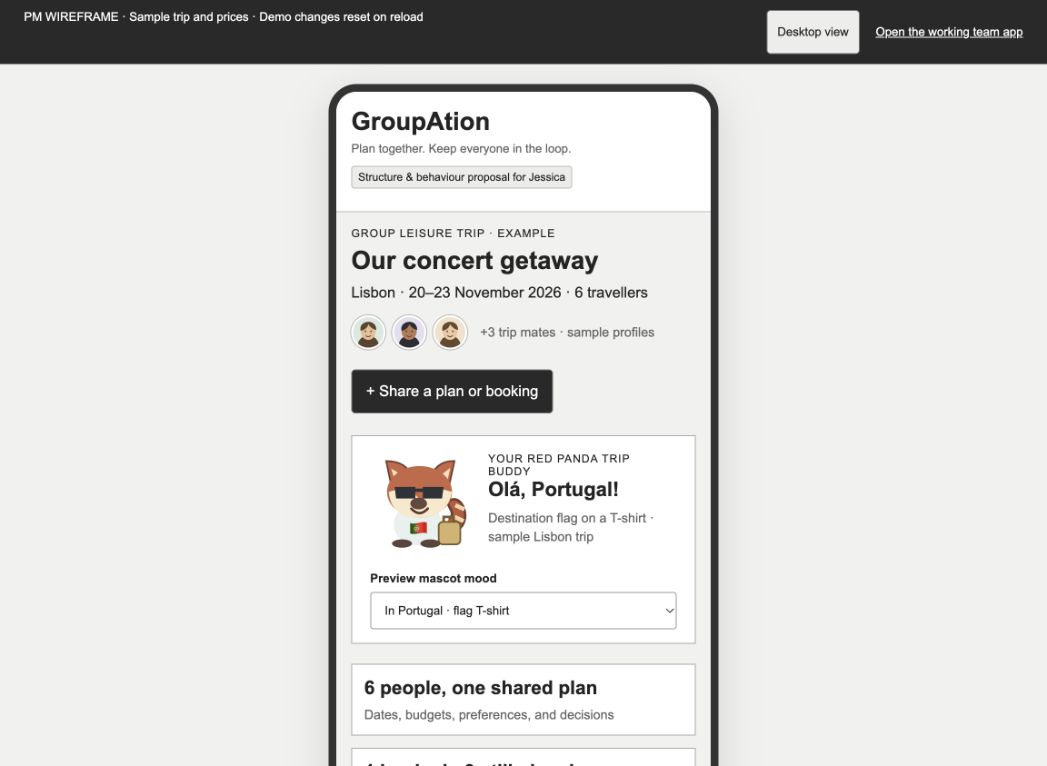
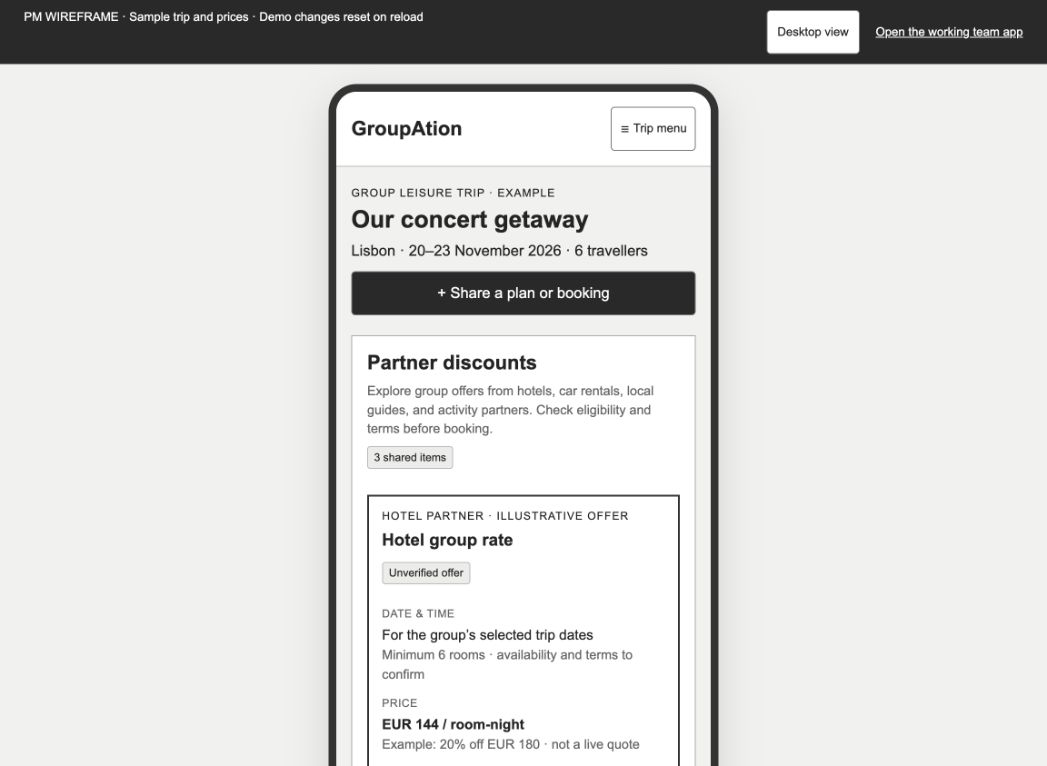
Drift: add focused sidebar and partner offers wireframe

Changed region(s): [[0.3362, 0.1501, 0.6724, 1.0], [0.5807, 0.1501, 0.6724, 0.1802], [0.6418, 0.9308, 0.6724, 0.9909]]

diff --git a/drift/public/groupation-wireframe.html b/drift/public/groupation-wireframe.html
@@ -6,24 +6,29 @@
 <link rel="icon" href="data:,">
 <style>
 :root{font-family:Arial,sans-serif;color:#242424;background:#f1f1ef;font-size:15px}*{box-sizing:border-box}body{margin:0}button,input,select,textarea{font:inherit}button,a{touch-action:manipulation}button{cursor:pointer;border:1px solid #777;background:#fff;padding:10px 14px;border-radius:4px;color:inherit}button:hover{background:#ededeb}button:focus-visible,a:focus-visible,input:focus-visible,select:focus-visible,textarea:focus-visible{outline:3px solid #5076ad;outline-offset:3px}.primary{background:#292929;color:white}.primary:hover{background:#444}.quiet{color:#656565;font-size:13px}.tag{font-size:11px;text-transform:uppercase;letter-spacing:.08em}.banner{background:#292929;color:white;padding:10px 24px;font-size:12px;display:flex;justify-content:space-between;gap:14px}.banner a{color:white}.preview-toggle{padding:5px 10px;font-size:12px;white-space:nowrap;color:#222;background:#fff}.preview-controls{display:flex;gap:16px;align-items:center}#app-frame{container-type:inline-size;container-name:device}.device-mobile #app-frame{width:390px;max-width:calc(100% - 24px);margin:20px auto;border:8px solid #333;border-radius:28px;max-height:844px;overflow:auto;background:#f1f1ef;box-shadow:0 12px 40px #0002}.device-mobile header{display:block}.device-mobile header>.badge{margin-top:10px}.device-mobile button{min-height:44px}header{background:#fff;border-bottom:1px solid #bbb;padding:20px 30px;display:flex;justify-content:space-between;align-items:center;gap:15px}.brand{font-size:25px;font-weight:bold}.headnote{font-size:12px;color:#666;margin-top:6px}.wrap{max-width:1450px;margin:auto;padding:26px}.tripbar{display:flex;justify-content:space-between;align-items:center;gap:20px;margin-bottom:22px}h1{font-size:30px;margin:6px 0 9px}h2{font-size:20px;margin:0 0 8px}h3{font-size:17px;margin:0 0 12px}p{line-height:1.45}.summary{display:grid;grid-template-columns:repeat(3,1fr);gap:12px;margin-bottom:22px}.metric{background:#fff;border:1px solid #aaa;padding:16px}.metric strong{display:block;margin-bottom:7px;font-size:19px}.workspace{display:grid;grid-template-columns:185px minmax(0,1fr) 340px;gap:20px;align-items:start}.nav{display:grid;gap:7px}.nav button{text-align:left;border-color:transparent;background:transparent}.nav button[aria-pressed=true]{border-color:#555;background:#fff;font-weight:bold}.nav small{display:block;font-weight:normal;font-size:11px;margin-top:5px;color:#666}.panel{background:#fff;border:1px solid #aaa;padding:20px}.sectionhead{display:flex;justify-content:space-between;gap:10px;align-items:start;margin-bottom:18px}.sectionhead p{margin:0}.cards{display:grid;gap:14px}.card{border:1px solid #aaa;padding:18px;background:#fff}.card.selected{border:2px solid #333;padding:17px}.cardtop{display:flex;justify-content:space-between;gap:10px;align-items:start}.badge{display:inline-block;background:#ececea;border:1px solid #bbb;border-radius:3px;padding:4px 6px;font-size:11px;white-space:nowrap}.fields{display:grid;grid-template-columns:1fr 1fr;gap:13px 18px;margin:15px 0}.fields dt{font-size:11px;color:#666;text-transform:uppercase;margin-bottom:5px;letter-spacing:.04em}.fields dd{margin:0;font-size:14px;line-height:1.4}.offer{background:#f4f4f2;border:1px dashed #777;padding:11px;font-size:12px;line-height:1.5}.cardfooter{display:flex;justify-content:space-between;align-items:center;gap:12px;border-top:1px solid #ddd;padding-top:12px;margin-top:15px}.cardfooter .quiet{font-size:11px}.thread{position:sticky;top:16px}.threadintro{padding-bottom:14px;border-bottom:1px solid #ccc}.threadintro p{margin:5px 0}.messages{max-height:390px;overflow:auto;padding:16px 0}.message{background:#f0f0ee;border:1px solid #ddd;margin-bottom:10px;padding:12px}.message strong{font-size:12px}.message p{font-size:14px;margin:6px 0}.message .quiet{font-size:11px}.empty{padding:18px 0;color:#666;font-size:14px}label{display:grid;gap:6px;margin-bottom:12px;font-size:12px;font-weight:bold}textarea,input,select{width:100%;border:1px solid #999;border-radius:3px;background:#fff;color:#222;padding:10px;font-weight:normal}textarea{min-height:88px;resize:vertical}.thread form button{width:100%}.note{padding:12px;border-left:3px solid #888;background:#e8e8e5;font-size:12px;line-height:1.5;margin-top:20px}.questionrow{display:block;width:100%;text-align:left;margin:10px 0}.questionrow span{display:block;margin-top:6px;font-size:12px;color:#666}dialog{max-width:650px;width:calc(100% - 30px);border:1px solid #555;border-radius:5px;padding:25px}dialog::backdrop{background:#0007}.formgrid{display:grid;grid-template-columns:1fr 1fr;gap:0 16px}.dialoghead{display:flex;justify-content:space-between;gap:12px}.dialogfoot{display:flex;justify-content:end;gap:10px}.span2{grid-column:1/-1}.avatar{display:inline-flex;width:34px;height:34px;flex:0 0 34px;border-radius:50%;overflow:hidden;border:2px solid white;box-shadow:0 0 0 1px #bbb}.avatar svg{width:100%;height:100%}.authorrow{display:flex;align-items:center;gap:9px}.groupfaces{display:flex;align-items:center;margin-top:14px;gap:7px}.groupfaces .quiet{margin-left:6px}.posting-person{display:flex;align-items:center;gap:10px}.posting-person select{flex:1}.panda-card{display:flex;align-items:center;gap:18px;background:#fff;border:1px solid #aaa;padding:14px 18px;margin:0 0 20px}.panda-card svg{width:100px;height:100px;flex:0 0 100px}.panda-copy{flex:1}.panda-copy p{margin:5px 0}.panda-card label{max-width:210px;margin:0}.device-mobile .panda-card{flex-wrap:wrap}.device-mobile .panda-card label{max-width:none;width:100%}.sr{position:absolute;width:1px;height:1px;overflow:hidden;clip:rect(0,0,0,0)}@container device (max-width:1150px){.workspace{grid-template-columns:150px minmax(0,1fr)}.thread{grid-column:2;position:static}.summary{grid-template-columns:1fr 1fr 1fr}}@container device (max-width:700px){.banner{padding:10px 15px;display:block}.banner a{display:block;margin-top:6px}header{padding:15px}.wrap{padding:15px}.tripbar{align-items:start;flex-direction:column}h1{font-size:25px}.summary{grid-template-columns:1fr}.workspace{display:block}.nav{display:flex;overflow:auto;margin-bottom:15px}.nav button{flex:0 0 auto}.nav small{display:none}.panel{padding:15px}.thread{margin-top:16px}.fields,.formgrid{grid-template-columns:1fr}.span2{grid-column:auto}.metric{padding:12px}.cardtop{display:block}.badge{margin-bottom:8px}.cardfooter{align-items:start}.sectionhead{flex-direction:column}}
+
+/* Focused web view: secondary information lives in the trip sidebar. */
+.wrap{padding-top:20px}.tripbar{margin-bottom:20px}.tripbar h1{font-size:27px}.workspace{grid-template-columns:230px minmax(0,1fr);gap:24px}.sidebar{position:sticky;top:16px;display:grid;gap:17px;background:#fafaf8;border:1px solid #bbb;padding:17px}.sidebar-head{display:flex;justify-content:space-between;align-items:center}.sidebar-head h2{font-size:16px;margin:0}.sidebar-head button{display:none}.sidebar .nav{display:grid;margin:0}.sidebar .nav button{width:100%;border:1px solid transparent;padding:10px;text-align:left}.sidebar .nav button[aria-pressed=true]{border-color:#999}.sidebar .nav small{display:none}.trip-details{border-top:1px solid #ccc;padding-top:15px}.trip-details summary,.mood-controls summary{cursor:pointer;font-size:13px;font-weight:bold;padding:5px 0}.sidebar .summary{grid-template-columns:1fr;margin:12px 0 0;gap:8px}.sidebar .metric{padding:10px}.sidebar .metric strong{font-size:13px}.sidebar .metric .quiet{font-size:11px}.sidebar .groupfaces{gap:4px;flex-wrap:wrap;margin-top:12px}.sidebar .groupfaces .quiet{font-size:11px;margin:3px 0}.sidebar .panda-card{display:grid;grid-template-columns:64px 1fr;padding:12px 0 0;border:0;border-top:1px solid #ccc;background:transparent;gap:10px;margin:0}.sidebar .panda-card svg{width:64px;height:64px}.sidebar .panda-copy h2{font-size:14px;line-height:1.3}.sidebar .panda-copy .tag{font-size:9px}.sidebar .panda-copy p{font-size:11px}.sidebar .mood-controls{grid-column:1/-1}.sidebar .mood-controls label{margin-top:9px;max-width:none}.sidebar .mood-controls select{font-size:12px}.workspace.sidebar-hidden{grid-template-columns:minmax(0,1fr)}.workspace.sidebar-hidden .sidebar{display:none}.discussion-drawer{margin:0 0 0 auto;inset:0;width:390px;max-width:100%;height:100%;max-height:100%;padding:24px;border:0;border-left:1px solid #888;border-radius:0}.discussion-drawer .thread{position:static;margin:0;padding:0;grid-column:auto}.drawer-actions{display:flex;justify-content:space-between;align-items:center;margin-bottom:20px}.drawer-actions button{font-size:24px;padding:3px 12px}.discussion-drawer::backdrop{background:#0005}.discussion-drawer .messages{max-height:40vh}.device-mobile .discussion-drawer{inset:70px 0 auto;margin:0 auto;width:374px;height:760px;max-height:calc(100vh - 85px);border-radius:10px}.device-mobile .sidebar .panda-card{display:grid}.device-mobile .sidebar .panda-card label{width:auto}.device-mobile header{display:flex;align-items:center}.device-mobile header .brand{font-size:20px}.device-mobile header .headnote{display:none}.device-mobile #sidebar-toggle{font-size:12px;padding:8px}.sidebar #sidebar-general{text-align:left;width:100%}
+@container device (max-width:1150px){.workspace{grid-template-columns:210px minmax(0,1fr)}.thread{grid-column:auto}.sidebar .summary{grid-template-columns:1fr}}
+@container device (max-width:700px){.workspace{display:block}.sidebar{display:none;position:static;margin-bottom:18px}.workspace.mobile-menu-open .sidebar{display:grid}.sidebar-head button{display:block}.sidebar .nav{display:grid;overflow:visible}.sidebar .nav button{flex:initial}.tripbar{gap:12px}.tripbar h1{font-size:24px}.tripbar #add-item{width:100%}.sidebar .panda-card{display:grid}.sectionhead{gap:8px}.card{padding:14px}.card.selected{padding:13px}header .headnote{display:none}header .brand{font-size:20px}#sidebar-toggle{font-size:12px;padding:8px}.sidebar .mood-controls{grid-column:1/-1}}
 </style>
 </head>
 <body>
 <div class="banner"><span>PM WIREFRAME · Sample trip and prices · Demo changes reset on reload</span><div class="preview-controls"><button class="preview-toggle" id="mobile-toggle" aria-pressed="false">Mobile view</button><a href="/">Open the working team app</a></div></div>
 <div id="app-frame">
-<header><div><div class="brand">GroupAtion</div><div class="headnote">Plan together. Keep everyone in the loop.</div></div><span class="badge">Structure &amp; behaviour proposal for Jessica</span></header>
+<header><div><div class="brand">GroupAtion</div><div class="headnote">Plan together. Keep everyone in the loop.</div></div><button id="sidebar-toggle" aria-controls="trip-sidebar" aria-expanded="true">☰ Hide trip menu</button></header>
 <main class="wrap">
-<section class="tripbar"><div><div class="tag">Group leisure trip · Example</div><h1>Our concert getaway</h1><div>Lisbon · 20–23 November 2026 · 6 travellers</div><div class="groupfaces" id="group-faces" aria-label="Example group members"></div></div><button class="primary" id="add-item">+ Share a plan or booking</button></section>
-<section class="panda-card" aria-label="Red panda trip buddy"><div id="panda-art"></div><div class="panda-copy"><div class="tag">Your red panda trip buddy</div><h2 id="panda-heading">Getting organized together</h2><p class="quiet" id="panda-caption"></p></div><label>Preview mascot mood<select id="panda-stage"><option value="auto">Follow planning progress</option><option value="stressed">Just starting · stressed</option><option value="happier">Plans coming together · happy</option><option value="ready">Ready · sunglasses & bag</option><option value="destination">In Portugal · flag T-shirt</option></select></label></section>
-<section class="summary" aria-label="Trip overview"><div class="metric"><strong>6 people, one shared plan</strong><span class="quiet">Dates, budgets, preferences, and decisions</span></div><div class="metric"><strong id="booking-count">1 booked · 3 still planning</strong><span class="quiet">See what is agreed and who is booking</span></div><div class="metric"><strong>Keep prices in their currency</strong><span class="quiet">Show cost per person or total · no assumed conversion</span></div></section>
-<div class="workspace">
-<nav class="nav" aria-label="Trip sections"><button data-tab="all" aria-pressed="true">Overview<small>Everything the group has shared</small></button><button data-tab="transport" aria-pressed="false">Flights &amp; trains<small>Arrivals, departures, transfers</small></button><button data-tab="stays" aria-pressed="false">Places to stay<small>Hotels, Airbnb, VRBO</small></button><button data-tab="plans" aria-pressed="false">Food &amp; activities<small>Restaurants, concerts, plans</small></button><button data-tab="questions" aria-pressed="false">All questions<small>Conversations in context</small></button></nav>
+<section class="tripbar"><div><div class="tag">Group leisure trip · Example</div><h1>Our concert getaway</h1><div>Lisbon · 20–23 November 2026 · 6 travellers</div></div><button class="primary" id="add-item">+ Share a plan or booking</button></section>
+
+
+<div class="workspace"><aside class="sidebar" id="trip-sidebar"><div class="sidebar-head"><h2>Trip menu</h2><button id="close-sidebar" aria-label="Close trip menu">×</button></div><nav class="nav" aria-label="Trip sections"><button data-tab="all" aria-pressed="true">Overview<small>Everything the group has shared</small></button><button data-tab="transport" aria-pressed="false">Flights &amp; trains<small>Arrivals, departures, transfers</small></button><button data-tab="stays" aria-pressed="false">Places to stay<small>Hotels, Airbnb, VRBO</small></button><button data-tab="plans" aria-pressed="false">Food &amp; activities<small>Restaurants, concerts, plans</small></button><button data-tab="offers" aria-pressed="false">Partner discounts<small>Hotels, car rentals, guides &amp; more</small></button><button data-tab="questions" aria-pressed="false">All questions<small>Conversations in context</small></button></nav><button id="sidebar-general">Group chat</button><details class="trip-details"><summary>People &amp; trip status</summary><div class="groupfaces" id="group-faces" aria-label="Example group members"></div><section class="summary" aria-label="Trip overview"><div class="metric"><strong>6 people, one shared plan</strong><span class="quiet">Dates, budgets, preferences, and decisions</span></div><div class="metric"><strong id="booking-count">1 booked · 3 still planning</strong><span class="quiet">See what is agreed and who is booking</span></div><div class="metric"><strong>Keep prices in their currency</strong><span class="quiet">Show cost per person or total · no assumed conversion</span></div></section></details><section class="panda-card" aria-label="Red panda trip buddy"><div id="panda-art"></div><div class="panda-copy"><div class="tag">Your red panda trip buddy</div><h2 id="panda-heading">Getting organized together</h2><p class="quiet" id="panda-caption"></p></div><details class="mood-controls"><summary>Preview mascot moods</summary><label>Preview mascot mood<select id="panda-stage"><option value="auto">Follow planning progress</option><option value="stressed">Just starting · stressed</option><option value="happier">Plans coming together · happy</option><option value="ready">Ready · sunglasses & bag</option><option value="destination">In Portugal · flag T-shirt</option></select></label></details></section></aside>
+
 <section class="panel" aria-labelledby="section-title"><div class="sectionhead"><div><h2 id="section-title">Shared trip board</h2><p class="quiet" id="section-description">Share the details once. Let everyone ask questions in the right place.</p></div><span class="badge" id="item-count">4 shared items</span></div><div id="cards" class="cards"></div><div class="note">Group discounts are a proposed feature. Any group rate or offer must identify its source and whether it is confirmed. Sample prices here are fictional.</div></section>
-<aside class="panel thread" aria-labelledby="thread-title"><div class="threadintro"><div class="tag">Questions &amp; comments</div><h2 id="thread-title">Apartment for the group</h2><p class="quiet" id="thread-scope">Attached to this stay, so the answer stays with the plan.</p></div><div id="messages" class="messages" aria-live="polite"></div><form id="question-form"><label>Posting as<span class="posting-person"><span id="current-avatar" aria-hidden="true"></span><select id="actor"><option>Alex</option><option>Sam</option><option>Jordan</option></select></span></label><label>Ask about this plan<textarea id="question" maxlength="1000" placeholder="Can we check in after our train arrives?" required></textarea></label><button class="primary" type="submit">Post to this discussion</button></form><p class="quiet">Choose “Discuss” on any item to open its conversation. There is also a general trip discussion.</p><button id="general-chat">Open general trip chat</button></aside>
+<dialog id="discussion-dialog" class="discussion-drawer"><aside class="thread" aria-labelledby="thread-title"><div class="drawer-actions"><span class="tag">Trip conversation</span><button id="close-discussion" aria-label="Close discussion">×</button></div><div class="threadintro"><div class="tag">Questions &amp; comments</div><h2 id="thread-title">Apartment for the group</h2><p class="quiet" id="thread-scope">Attached to this stay, so the answer stays with the plan.</p></div><div id="messages" class="messages" aria-live="polite"></div><form id="question-form"><label>Posting as<span class="posting-person"><span id="current-avatar" aria-hidden="true"></span><select id="actor"><option>Alex</option><option>Sam</option><option>Jordan</option></select></span></label><label>Ask about this plan<textarea id="question" maxlength="1000" placeholder="Can we check in after our train arrives?" required></textarea></label><button class="primary" type="submit">Post to this discussion</button></form><p class="quiet">Choose “Discuss” on any item to open its conversation. There is also a general trip discussion.</p><button id="general-chat">Open general trip chat</button></aside></dialog>
 </div><div id="status" class="sr" role="status"></div>
 </main>
 </div>
-<dialog id="item-dialog"><form id="item-form"><div class="dialoghead"><div><div class="tag">Share with your trip mates</div><h2>Add a plan or booking</h2></div><button type="button" id="close-dialog" aria-label="Close add item">×</button></div><p class="quiet">Example flow: share a link and the details everyone needs, then discuss it together.</p><div class="formgrid"><label class="span2">What are you sharing?<input name="title" required maxlength="100" placeholder="Hotel option near the venue"></label><label>Section<select name="category"><option value="transport">Flights &amp; trains</option><option value="stays">Places to stay</option><option value="plans">Food &amp; activities</option></select></label><label>Provider or type<input name="provider" placeholder="Airline, train, hotel, Airbnb, VRBO…" maxlength="80"></label><label>Date<input name="date" type="date" value="2026-11-20" required></label><label>Time and time zone<input name="time" placeholder="15:00 · Europe/Lisbon" maxlength="100"></label><label>Price<input name="price" type="number" min="0" step="0.01" required></label><label>Currency<select name="currency"><option>EUR</option><option>CAD</option><option>USD</option><option>GBP</option></select></label><label>Price basis<select name="basis"><option>per person</option><option>group total</option><option>per night</option><option>per room / night</option></select></label><label>Booking state<select name="state"><option>Idea</option><option>Group agreed</option><option>Booking pending</option><option>Booked</option></select></label><label class="span2">Shared link<input name="url" type="url" placeholder="https://…"></label><label class="span2">Details for the group<textarea name="details" maxlength="500" placeholder="Who is joining, cancellation terms, meeting point, or details still to confirm"></textarea></label></div><div class="dialogfoot"><button type="button" id="cancel-dialog">Cancel</button><button class="primary" type="submit">Share with the group</button></div></form></dialog>
+<dialog id="item-dialog"><form id="item-form"><div class="dialoghead"><div><div class="tag">Share with your trip mates</div><h2>Add a plan or booking</h2></div><button type="button" id="close-dialog" aria-label="Close add item">×</button></div><p class="quiet">Example flow: share a link and the details everyone needs, then discuss it together.</p><div class="formgrid"><label class="span2">What are you sharing?<input name="title" required maxlength="100" placeholder="Hotel option near the venue"></label><label>Section<select name="category"><option value="transport">Flights &amp; trains</option><option value="stays">Places to stay</option><option value="plans">Food &amp; activities</option><option value="offers">Partner discounts</option></select></label><label>Provider or type<input name="provider" placeholder="Airline, train, hotel, Airbnb, VRBO…" maxlength="80"></label><label>Date<input name="date" type="date" value="2026-11-20" required></label><label>Time and time zone<input name="time" placeholder="15:00 · Europe/Lisbon" maxlength="100"></label><label>Price<input name="price" type="number" min="0" step="0.01" required></label><label>Currency<select name="currency"><option>EUR</option><option>CAD</option><option>USD</option><option>GBP</option></select></label><label>Price basis<select name="basis"><option>per person</option><option>group total</option><option>per night</option><option>per room / night</option></select></label><label>Booking state<select name="state"><option>Idea</option><option>Group agreed</option><option>Booking pending</option><option>Booked</option></select></label><label class="span2">Shared link<input name="url" type="url" placeholder="https://…"></label><label class="span2">Details for the group<textarea name="details" maxlength="500" placeholder="Who is joining, cancellation terms, meeting point, or details still to confirm"></textarea></label></div><div class="dialogfoot"><button type="button" id="cancel-dialog">Cancel</button><button class="primary" type="submit">Share with the group</button></div></form></dialog>
 <script>
 const items=[
 {id:'flight',category:'transport',title:'Outbound flight option',provider:'Flight · shared airline link',date:'20 Nov · 08:30 departure / 20:15 arrival',time:'Departure: America/Toronto · arrival: Europe/Lisbon',price:'CAD 620',basis:'per person · example one-way fare',state:'Idea',owner:'Alex',detail:'Share flight number, airports, arrival details, baggage, and who is on this flight.'},
@@ -31,16 +36,29 @@ const items=[
 {id:'dinner',category:'plans',title:'First-night group dinner',provider:'Restaurant · shared reservation link',date:'20 Nov · 20:30',time:'Europe/Lisbon',price:'EUR 35',basis:'per person · estimated',state:'Booking pending',owner:'Jordan',detail:'Six seats requested. Ask about arrival time, dietary needs, and the meeting point.'},
 {id:'concert',category:'plans',title:'Concert night together',provider:'Event · example booking',date:'21 Nov · 19:00',time:'Europe/Lisbon',price:'EUR 85',basis:'per person · example ticket',state:'Booked',owner:'Alex',detail:'Keep the venue, ticket status, meeting time, and which travellers are attending together.'}
 ];
-const threads={stay:[{actor:'Alex',body:'Does the group price include cleaning and other fees?'},{actor:'Sam',body:'Not confirmed yet. I will check the full listing total before booking.'}],flight:[{actor:'Jordan',body:'Is checked baggage included in this fare?'}],dinner:[],concert:[],general:[{actor:'Sam',body:'Can everyone add their arrival details so we can plan the first night?'}]};
+items.push(
+ {id:'hotel-offer',category:'offers',title:'Hotel group rate',provider:'Hotel partner · illustrative offer',date:'For the group’s selected trip dates',time:'Minimum 6 rooms · availability and terms to confirm',price:'EUR 144 / room-night',basis:'Example: 20% off EUR 180 · not a live quote',state:'Unverified offer',owner:'Sam',detail:'Compare the total after fees, cancellation terms, booking deadline, and the number of rooms required.',offer:'Sample partner opportunity. Source and provider confirmation required before booking.'},
+ {id:'car-offer',category:'offers',title:'Car rental / group van',provider:'Car rental partner · illustrative offer',date:'Pickup and return matched to the trip',time:'Driver eligibility, insurance, mileage, and deposit to confirm',price:'10% group discount',basis:'Illustrative percentage · base price not quoted',state:'Unverified offer',owner:'Alex',detail:'Keep pickup location, seats, luggage capacity, extra-driver costs, and cancellation terms visible to the group.',offer:'Sample partner opportunity. This is not a negotiated or guaranteed rental discount.'},
+ {id:'guide-offer',category:'offers',title:'Local guide & group experience',provider:'Local guide partner · illustrative offer',date:'Choose a date and time with the group',time:'Minimum 6 guests · local time zone and expiry to confirm',price:'15% group discount',basis:'Illustrative percentage · final price to confirm',state:'Unverified offer',owner:'Jordan',detail:'Compare tour duration, meeting point, language, accessibility, inclusions, and refund terms.',offer:'Sample partner opportunity. Confirm the provider, eligibility, and final payable total.'}
+ );
+ const threads={stay:[{actor:'Alex',body:'Does the group price include cleaning and other fees?'},{actor:'Sam',body:'Not confirmed yet. I will check the full listing total before booking.'}],flight:[{actor:'Jordan',body:'Is checked baggage included in this fare?'}],dinner:[],concert:[],general:[{actor:'Sam',body:'Can everyone add their arrival details so we can plan the first night?'}]};
 let tab='all',selected='stay';
 const $=s=>document.querySelector(s);
 $('#mobile-toggle').addEventListener('click',()=>{const mobile=document.body.classList.toggle('device-mobile');$('#mobile-toggle').textContent=mobile?'Desktop view':'Mobile view';$('#mobile-toggle').setAttribute('aria-pressed',String(mobile));$('#status').textContent=mobile?'Mobile app layout preview':'Desktop layout preview';});
+function syncSidebar(){const visible=getComputedStyle($('#trip-sidebar')).display!=='none';$('#sidebar-toggle').setAttribute('aria-expanded',String(visible));$('#sidebar-toggle').textContent=visible?'☰ Hide trip menu':'☰ Trip menu';}
+$('#sidebar-toggle').addEventListener('click',()=>{const narrow=$('#app-frame').clientWidth<=700;$('.workspace').classList.toggle(narrow?'mobile-menu-open':'sidebar-hidden');syncSidebar();});
+$('#close-sidebar').addEventListener('click',()=>{$('.workspace').classList.remove('mobile-menu-open');syncSidebar();$('#sidebar-toggle').focus();});
+$('#mobile-toggle').addEventListener('click',()=>{$('.workspace').classList.remove('mobile-menu-open');syncSidebar();});
+function openDiscussion(id){selected=id;render();if(!$('#discussion-dialog').open)$('#discussion-dialog').showModal();}
+$('#close-discussion').addEventListener('click',()=>$('#discussion-dialog').close());
+$('#sidebar-general').addEventListener('click',()=>openDiscussion('general'));
 const escape=s=>String(s??'').replace(/[&<>"']/g,c=>({'&':'&amp;','<':'&lt;','>':'&gt;','"':'&quot;',"'":'&#39;'}[c]));
-const titles={all:['Shared trip board','Share the details once. Let everyone ask questions in the right place.'],transport:['Flights & trains','Share journeys, arrival details, stations, airports, and meeting points.'],stays:['Places to stay','Compare hotels, Airbnb, and VRBO options with clear prices and booking ownership.'],plans:['Food & activities','Keep restaurants, concerts, and activities together with the itinerary.'],questions:['All questions','Every conversation keeps a link to the plan it concerns.']};
+const titles={all:['Shared trip board','Share the details once. Let everyone ask questions in the right place.'],transport:['Flights & trains','Share journeys, arrival details, stations, airports, and meeting points.'],stays:['Places to stay','Compare hotels, Airbnb, and VRBO options with clear prices and booking ownership.'],plans:['Food & activities','Keep restaurants, concerts, and activities together with the itinerary.'],offers:['Partner discounts','Explore group offers from hotels, car rentals, local guides, and activity partners. Check eligibility and terms before booking.'],questions:['All questions','Every conversation keeps a link to the plan it concerns.']};
 function renderPanda(){
  const chosen=$('#panda-stage').value;
- const planned=items.filter(i=>i.state!=='Idea').length;
- const stage=chosen==='auto'?(items.every(i=>i.state==='Booked')?'ready':planned>=2?'happier':'stressed'):chosen;
+ const tripItems=items.filter(i=>i.category!=='offers');
+ const planned=tripItems.filter(i=>i.state!=='Idea').length;
+ const stage=chosen==='auto'?(tripItems.every(i=>i.state==='Booked')?'ready':planned>=2?'happier':'stressed'):chosen;
  const travel=stage==='ready'||stage==='destination';
  const heading={stressed:'So many ideas! Let’s make a plan.',happier:'Our trip is coming together!',ready:'Packed and ready to go.',destination:'Olá, Portugal!'};
  $('#panda-heading').textContent=heading[stage];
@@ -50,9 +68,9 @@ function renderPanda(){
 function render(){
  document.querySelectorAll('[data-tab]').forEach(b=>b.setAttribute('aria-pressed',String(b.dataset.tab===tab)));
  $('#section-title').textContent=titles[tab][0];$('#section-description').textContent=titles[tab][1];
- const visible=items.filter(i=>tab==='all'||i.category===tab);
+ const visible=items.filter(i=>tab==='all'?i.category!=='offers':i.category===tab);
  $('#item-count').textContent=tab==='questions'?Object.values(threads).reduce((n,t)=>n+t.length,0)+' comments':visible.length+' shared items';
- $('#booking-count').textContent=items.filter(i=>i.state==='Booked').length+' booked · '+items.filter(i=>i.state!=='Booked').length+' still planning';
+ $('#booking-count').textContent=items.filter(i=>i.category!=='offers'&&i.state==='Booked').length+' booked · '+items.filter(i=>i.category!=='offers'&&i.state!=='Booked').length+' still planning';
  if(tab==='questions'){
   $('#cards').innerHTML=Object.entries(threads).map(([id,messages])=>`<button class="questionrow" data-discuss="${escape(id)}"><strong>${escape(items.find(i=>i.id===id)?.title||'General trip discussion')}</strong><span>${messages.length} comments${messages.length?' · Latest: '+escape(messages.at(-1).body):' · Ask the first question'}</span></button>`).join('');
  }else{
@@ -72,8 +90,8 @@ function renderThread(){
  $('#thread-scope').textContent=item?'Questions stay attached to this plan, so everyone can find the answer.':'Questions about the whole trip live here.';
  $('#messages').innerHTML=(threads[selected]||[]).map(m=>`<div class="message"><div class="authorrow">${portrait(m.actor)}<strong>${escape(m.actor)}</strong></div><p>${escape(m.body)}</p><span class="quiet">${m.new?'Just now · demo':'Sample conversation'}</span></div>`).join('')||'<p class="empty">No questions yet. Ask the first one.</p>';
 }
-document.querySelectorAll('[data-tab]').forEach(b=>b.addEventListener('click',()=>{tab=b.dataset.tab;render()}));
-$('#cards').addEventListener('click',e=>{const b=e.target.closest('[data-discuss]');if(b){selected=b.dataset.discuss;render();$('#thread-title').scrollIntoView({block:'nearest',behavior:'smooth'})}});
+document.querySelectorAll('[data-tab]').forEach(b=>b.addEventListener('click',()=>{tab=b.dataset.tab;render();if($('#app-frame').clientWidth<=700){$('.workspace').classList.remove('mobile-menu-open');syncSidebar();}}));
+$('#cards').addEventListener('click',e=>{const b=e.target.closest('[data-discuss]');if(b){openDiscussion(b.dataset.discuss)}});
 $('#general-chat').addEventListener('click',()=>{selected='general';render()});
 $('#question-form').addEventListener('submit',e=>{e.preventDefault();const body=$('#question').value.trim();if(!body)return;(threads[selected]??=[]).push({actor:$('#actor').value,body,new:true});$('#question').value='';render();$('#status').textContent='Comment posted to '+$('#thread-title').textContent;$('#messages').scrollTop=$('#messages').scrollHeight});
 $('#add-item').addEventListener('click',()=>$('#item-dialog').showModal());
@@ -82,7 +100,7 @@ $('#item-form').addEventListener('submit',e=>{e.preventDefault();const f=new For
 $('#panda-stage').addEventListener('change',renderPanda);
 $('#actor').addEventListener('change',()=>{$('#current-avatar').innerHTML=portrait($('#actor').value)});
 $('#group-faces').innerHTML=['Alex','Sam','Jordan'].map(portrait).join('')+'<span class=quiet>+3 trip mates · sample profiles</span>';
-render();
+render();syncSidebar();
 </script>
 </body>
 </html>

diff --git a/drift/JESSICA-DESIGN-HANDOFF.md b/drift/JESSICA-DESIGN-HANDOFF.md
@@ -129,3 +129,16 @@ Include the cute red panda trip buddy: initially stressed, increasingly happy as
 Coordinate actual code/file ownership with Ben and Ronak before editing shared frontend files. Preserve Ronak's landing-page/onboarding copy and existing working trip flows. Agree on new persisted data fields with Ben; the standalone wireframe is an in-memory demonstration, not the finished feature. If a backend field is unavailable, label the UI as a proposal rather than pretending it works.
 
 Work only within `drift/`. Run `npm run check`, verify the affected flows in the browser and on a narrow screen, and save the v1 screenshot and commit reference inside the team folder. Commit only your intended Drift paths. Coordinate one team publisher, merge ready work into the `team/drift` publish worktree, and push only `team/drift`. Keep session branches local; do not push to `main` or other teams' branches.
+
+
+## Latest PM refinement: calmer main screen
+
+Use a collapsible left sidebar in the desktop web view for trip sections, general chat, people/status details, and the mascot controls. Keep the main screen focused on the trip title, its primary action, and the selected plans. Hide secondary metrics and demo mood controls under expandable sidebar sections. Open contextual discussions on demand in a side drawer instead of displaying a chat panel permanently. On mobile, use a Trip menu button to reveal the sidebar and keep it closed while browsing plans. The PM wireframe now demonstrates this behaviour.
+
+
+## Dedicated partner discounts section
+
+Add a visible **Partner discounts** navigation entry, separate from the itinerary. Cover hotel partners, car rentals/vans, local guides, tours/activities, and other travel partners. Each offer must show the provider/source link, eligible dates, expiry, group-size requirements, original price, discount type and amount, currency, fees/exclusions, cancellation terms, and verification status. Keep the final payable total clear. Offer cards can have contextual group questions and a responsible person to check the deal. The wireframe now includes fictional hotel, car rental, and guide offers. These are examples, not existing partnerships, live quotes, negotiated deals, or guaranteed savings. Do not count unverified offers as confirmed trip bookings or mascot readiness.
+
+
+Ronak has now published redesigned GroupAtion onboarding at `/#new`; preserve that working, persisted flow. The PM planner preview remains separately available at `/groupation-wireframe.html`. Integrate the agreed design into the working product in coordination with the team; do not replace real trip creation with the in-memory preview.

diff --git a/drift/JESSICA-AGENT-PROMPT.md b/drift/JESSICA-AGENT-PROMPT.md
@@ -38,3 +38,16 @@ Agree on new persisted data fields with Ben. Keep the starter IDs and relationsh
 - Commit only your intended Drift changes.
 - Coordinate one team publisher at a time. Merge ready work through the `team/drift` publish worktree and push only `team/drift`, following `AGENTS.md`.
 - Keep session branches local. Do not push to `main` or another team's branch, discard another session's work, or force-push.
+
+
+## Latest PM refinement: calmer main screen
+
+Use a collapsible left sidebar in the desktop web view for trip sections, general chat, people/status details, and the mascot controls. Keep the main screen focused on the trip title, its primary action, and the selected plans. Hide secondary metrics and demo mood controls under expandable sidebar sections. Open contextual discussions on demand in a side drawer instead of displaying a chat panel permanently. On mobile, use a Trip menu button to reveal the sidebar and keep it closed while browsing plans. The PM wireframe now demonstrates this behaviour.
+
+
+## Dedicated partner discounts section
+
+Add a visible **Partner discounts** navigation entry, separate from the itinerary. Cover hotel partners, car rentals/vans, local guides, tours/activities, and other travel partners. Each offer must show the provider/source link, eligible dates, expiry, group-size requirements, original price, discount type and amount, currency, fees/exclusions, cancellation terms, and verification status. Keep the final payable total clear. Offer cards can have contextual group questions and a responsible person to check the deal. The wireframe now includes fictional hotel, car rental, and guide offers. These are examples, not existing partnerships, live quotes, negotiated deals, or guaranteed savings. Do not count unverified offers as confirmed trip bookings or mascot readiness.
+
+
+Ronak has now published redesigned GroupAtion onboarding at `/#new`; preserve that working, persisted flow. The PM planner preview remains separately available at `/groupation-wireframe.html`. Integrate the agreed design into the working product in coordination with the team; do not replace real trip creation with the in-memory preview.
